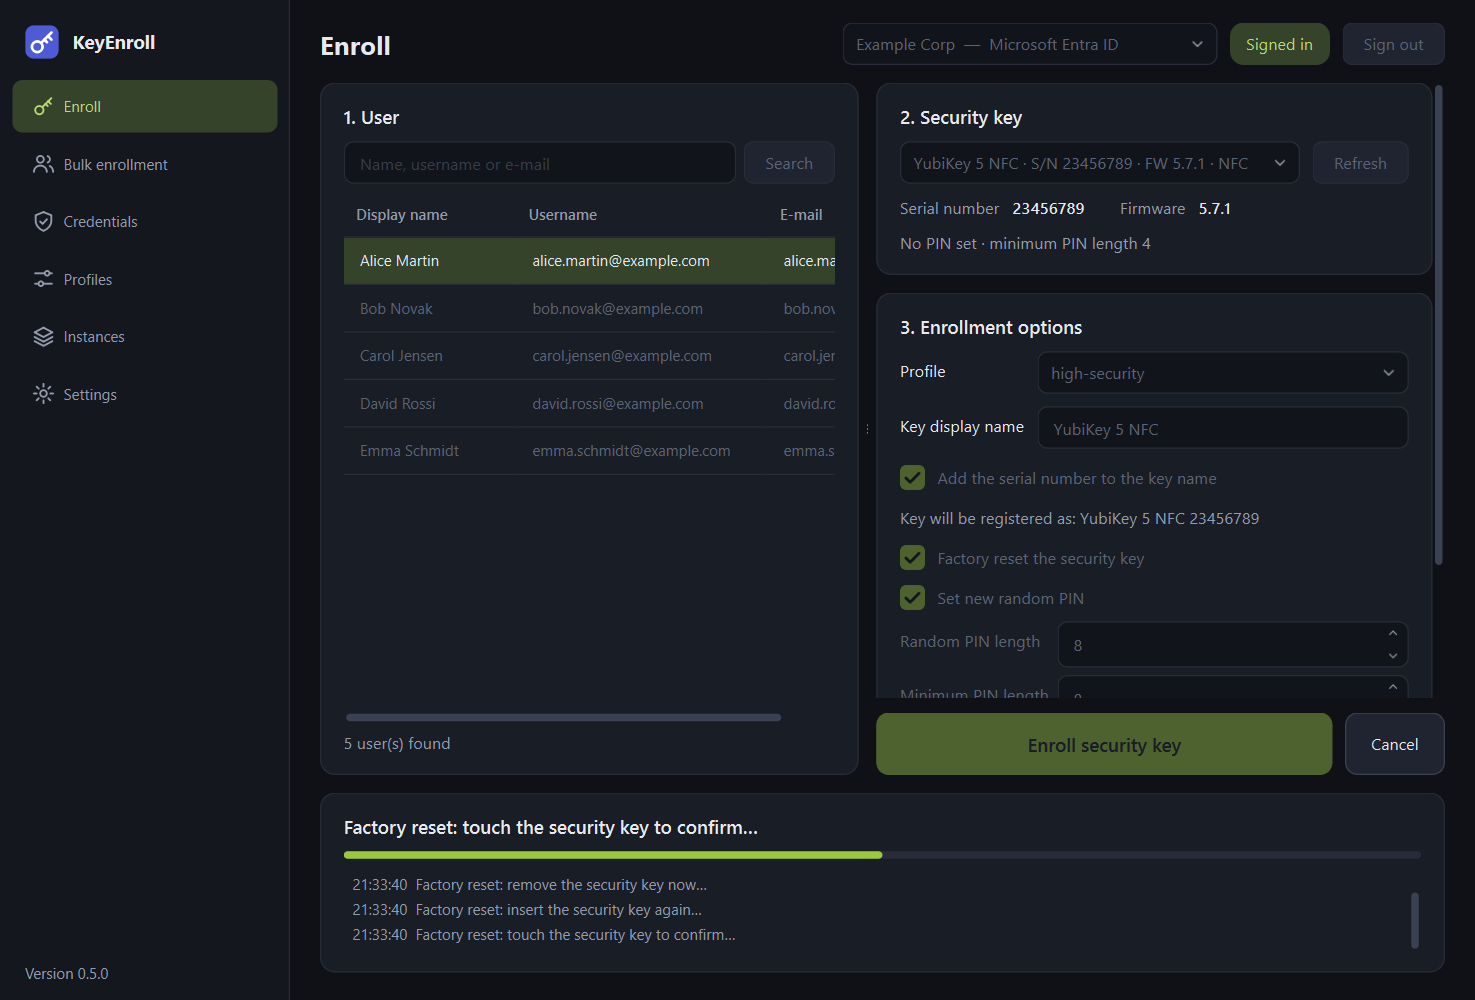
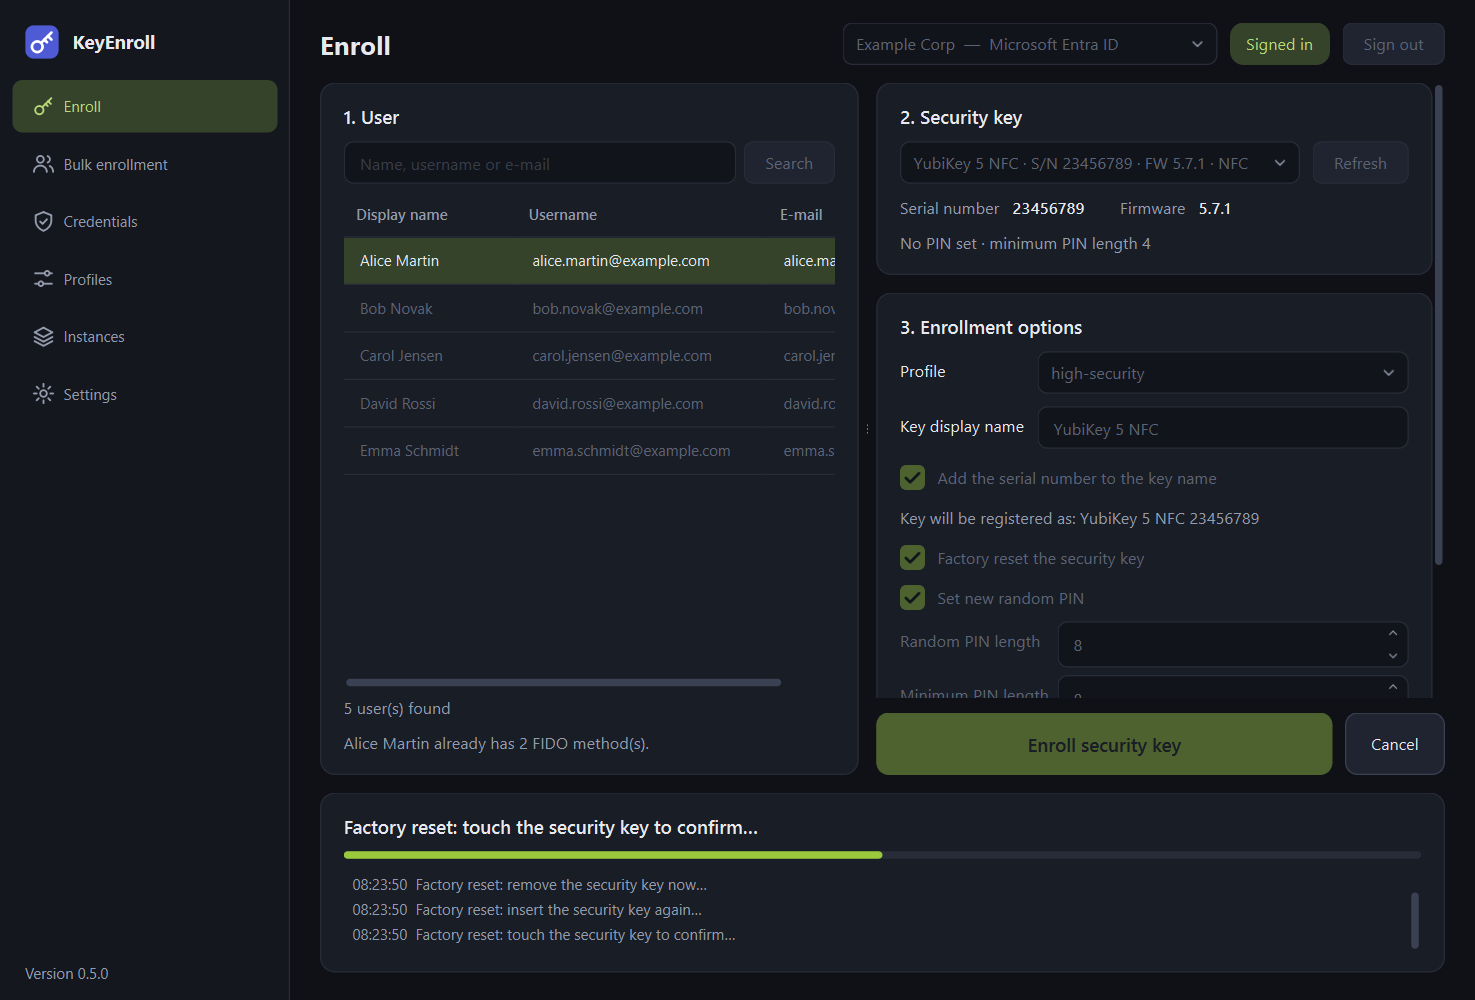
Document group lists and existing keys; refresh screenshots
Docs (EN/PL), each marked "Since version 0.7.0": loading the bulk list
from a group, users who already have a key and the new status, the extra
permission per provider (PingOne AIC flagged as not yet tried live), the
new instance option and the note on the Enroll page. Screenshots show the
new column and options, plus the group dialog. The bulk summary moves to
its own line, where three buttons no longer cut it off.

Changed region(s): [[0.2183, 0.682, 0.5302, 0.775]]

diff --git a/tools/docs_screenshots.py b/tools/docs_screenshots.py
@@ -36,8 +36,9 @@ from keyenroll.bulk import BulkRow
 from keyenroll.config import ConfigStore, Instance, Profile
 from keyenroll.handover import Handover
 from keyenroll.providers import PROVIDERS
-from keyenroll.providers.base import Credential, DirectoryUser
+from keyenroll.providers.base import Credential, DirectoryGroup, DirectoryUser
 from keyenroll.secrets_store import TokenStore
+from keyenroll.ui import bulk_page as bulk_page_module
 from keyenroll.ui import dialogs, main_window
 from keyenroll.ui.common import AppContext
 from keyenroll.ui.theme import apply_theme
@@ -76,6 +77,12 @@ class Provider(GuiProvider):
 
     def search_users(self, query):
         return [u for u in PEOPLE if query.lower() in u.display_name.lower()]
+
+    def search_groups(self, query):
+        return [
+            DirectoryGroup("g1", "New starters October", "Joined in October 2026"),
+            DirectoryGroup("g2", "New starters September", "Joined in September 2026"),
+        ]
 
 
 class Source(FakeSource):
@@ -163,16 +170,19 @@ def render(app: QApplication, lang: str) -> list[str]:
     window.nav.setCurrentRow(main_window.PAGE_BULK)
     bulk_page = window.bulk_page
     states = [
-        (bulk.DONE, 23456789, "48153729"),
-        (bulk.DONE, 23456790, "90274615"),
-        (bulk.RUNNING, None, None),
-        (bulk.READY, None, None),
+        (bulk.DONE, 23456789, "48153729", 0),
+        (bulk.DONE, 23456790, "90274615", 0),
+        (bulk.RUNNING, None, None, 0),
+        (bulk.READY, None, None, 0),
+        (bulk.HAS_KEY, None, None, 2),
     ]
+    bulk_page.skip_existing.setChecked(True)
     bulk_page.rows = [
         BulkRow(user.username, user=user, status=status, serial=serial, pin=pin,
                 key_name=f"YubiKey 5 NFC {serial}" if serial else "",
-                finished="2026-10-02 09:41:07" if serial else "", must_change_pin=True)
-        for user, (status, serial, pin) in zip(PEOPLE, states, strict=False)
+                finished="2026-10-02 09:41:07" if serial else "", must_change_pin=True,
+                existing=existing)
+        for user, (status, serial, pin, existing) in zip(PEOPLE, states, strict=False)
     ]
     bulk_page.rows.append(BulkRow("frank.ghost@example.com", status=bulk.NOT_FOUND))
     bulk_page._instance_id = config.active_instance_id
@@ -187,6 +197,12 @@ def render(app: QApplication, lang: str) -> list[str]:
     bulk_page.table.selectRow(0)
     shot(window, "bulk")
     shot(dialogs.ExportDialog(window), "export")
+    group_dialog = bulk_page_module.GroupDialog(ctx.provider, window)
+    group_dialog.query.setText("New starters")
+    group_dialog.search()
+    pump(0.3)
+    group_dialog.table.selectRow(0)
+    shot(group_dialog, "group")
     bulk_page._worker, bulk_page._running = None, False
     bulk_page.rows = []  # nothing left to warn about when the window closes
     bulk_page._refresh_all()

diff --git a/src/keyenroll/ui/bulk_page.py b/src/keyenroll/ui/bulk_page.py
@@ -159,7 +159,6 @@ class BulkPage(QWidget):
         list_buttons.addSpacing(10)
         list_buttons.addWidget(self.show_pins)
         list_buttons.addStretch(1)
-        list_buttons.addWidget(self.summary)
         self.table = make_table(
             [
                 tr("User"),
@@ -184,6 +183,8 @@ class BulkPage(QWidget):
             ),
         )
         list_card.body.addLayout(list_buttons)
+        # On its own line: next to three buttons it would be cut off.
+        list_card.body.addWidget(self.summary)
         list_card.body.addWidget(self.table, 1)
 
         # options

diff --git a/docs/bulk.pl.md b/docs/bulk.pl.md
@@ -40,6 +40,40 @@ Zasady:
 - Pliki zapisane przez Excela lub Notatnik działają bez przeróbek (wykrywane są
   kodowania UTF-8, UTF-16 i kodowania Windows).
 
+## Lista z grupy { #loading-the-list-from-a-group }
+
+!!! info "Od wersji 0.7.0"
+
+Zamiast pliku listą mogą być członkowie grupy z katalogu, np. *Nowi pracownicy
+październik*. Wymaga to dodatkowego uprawnienia i włącza się osobno dla każdej
+instancji; zobacz [Listy masowe z grup](providers.md#bulk-lists-from-groups).
+
+![Wybór grupy](assets/screenshots/pl/group.png){ .shot .dialog }
+
+1. **Wczytaj z grupy…**, wpisz początek nazwy grupy i kliknij **Szukaj**.
+2. Zaznacz grupę. W Microsoft Entra ID opcja **Uwzględnij członków podgrup** dodaje
+   też członków grup zagnieżdżonych.
+3. **Wczytaj członków**. Brani są tylko użytkownicy; urządzenia i inne obiekty
+   w grupie są pomijane, a użytkownik występujący dwa razy trafia na listę raz.
+
+Użytkownicy pochodzą wprost z katalogu, więc nie trzeba ich osobno wyszukiwać. Lista
+należy do instancji, dla której ją wczytano, tak samo jak lista z pliku.
+
+## Użytkownicy, którzy mają już klucz { #users-who-already-have-a-key }
+
+!!! info "Od wersji 0.7.0"
+
+Gdy opcja **Sprawdzaj istniejące metody FIDO** jest włączona (domyślnie), KeyEnroll
+przy wczytywaniu listy liczy metody FIDO, które każdy użytkownik już ma, i pokazuje
+tę liczbę w kolumnie **Metody FIDO**. Opcja **Pomiń użytkowników, którzy już je
+mają** zmienia ich status na *Ma już klucz*, więc wdrożenie ich pomija; jej
+wyłączenie przywraca ich do kolejki.
+
+Liczone są wszystkie metody FIDO znane dostawcy tożsamości: klucze bezpieczeństwa,
+a w Entra ID i Okta także passkeys w Microsoft Authenticator czy Windows Hello.
+PingOne Advanced Identity Cloud nie udostępnia ich listy, więc przy nim kolumna
+pozostaje pusta.
+
 ## Strona
 
 **Opcje rejestracji** (u góry)
@@ -49,12 +83,14 @@ Zasady:
 | **Profil** | [Profil](profiles.md) stosowany do każdego klucza we wdrożeniu. Wiersz poniżej streszcza jego opcje. |
 | **Nazwa wyświetlana klucza** | Nazwa nadawana każdemu kluczowi. Połącz ją z numerem seryjnym, żeby rozróżniać klucze. |
 | **Dodaj numer seryjny do nazwy klucza** | Dopisuje numer seryjny danego klucza. |
+| **Sprawdzaj istniejące metody FIDO**, **Pomiń użytkowników, którzy już je mają** | Zobacz [Użytkownicy, którzy mają już klucz](#users-who-already-have-a-key). |
 
 **Lista użytkowników** (środek)
 
 | Element | Do czego służy |
 |---|---|
 | **Wczytaj z pliku…** | Wczytuje listę i sprawdza każdego użytkownika w katalogu. |
+| **Wczytaj z grupy…** | Używa członków grupy z katalogu jako listy, zobacz [wyżej](#loading-the-list-from-a-group). |
 | **Wyczyść listę** | Opróżnia listę. Najpierw pyta, jeśli są PIN-y, których nie wyeksportowano. |
 | **Pokaż PIN-y na liście** | Pokazuje tymczasowe PIN-y zamiast kropek. Zostaw wyłączone, jeśli ktoś może widzieć Twój ekran. |
 | Podsumowanie po prawej | Ilu użytkowników jest gotowych, zarejestrowanych, nieudanych i nieznalezionych. |
@@ -81,6 +117,7 @@ Zasady:
 | W toku | Klucz tego użytkownika jest właśnie rejestrowany. |
 | Zarejestrowano | Gotowe. Wiersz pokazuje numer seryjny i PIN. |
 | Niepowodzenie | Coś poszło nie tak; kolumna *Komunikat* mówi co. |
+| Ma już klucz | Użytkownik ma już metodę FIDO, a opcja *Pomiń użytkowników, którzy już je mają* jest włączona. Wiersz jest pomijany. |
 
 ## Przebieg wdrożenia
 

diff --git a/docs/bulk.md b/docs/bulk.md
@@ -40,6 +40,39 @@ Rules:
 - Files saved by Excel or Notepad work as they are (UTF-8, UTF-16 and Windows
   encodings are detected).
 
+## Loading the list from a group
+
+!!! info "Since version 0.7.0"
+
+Instead of a file, the list can be the members of a group in the directory, for
+example *New starters October*. This needs an additional permission and is switched
+on per instance; see [Bulk lists from groups](providers.md#bulk-lists-from-groups).
+
+![Choosing a group](assets/screenshots/en/group.png){ .shot .dialog }
+
+1. **Load from group…**, type the beginning of the group name and press **Search**.
+2. Select the group. With Microsoft Entra ID, **Include members of nested groups**
+   also takes the members of groups inside it.
+3. **Load members**. Only users are taken; devices and other objects in the group
+   are left out, and a user who appears twice is listed once.
+
+The users come straight from the directory, so no separate lookup is needed. The
+list belongs to the instance it was loaded for, like a list from a file.
+
+## Users who already have a key
+
+!!! info "Since version 0.7.0"
+
+With **Check for existing FIDO methods** on (the default), KeyEnroll counts the FIDO
+methods each user already has while the list is loaded, and shows the number in the
+column **FIDO methods**. **Skip users who already have one** moves those users to the
+status *Has a key*, so that the batch passes them over; switch it off to put them
+back in the queue.
+
+The count includes every FIDO method the identity provider knows: security keys,
+and with Entra ID and Okta also passkeys in Microsoft Authenticator or Windows Hello.
+PingOne Advanced Identity Cloud cannot list them, so with it the column stays empty.
+
 ## The page
 
 **Enrollment options** (top)
@@ -49,12 +82,14 @@ Rules:
 | **Profile** | The [profile](profiles.md) applied to every key of the batch. The line below summarises it. |
 | **Key display name** | The name given to every key. Combine it with the serial number to tell the keys apart. |
 | **Add the serial number to the key name** | Appends each key's own serial number. |
+| **Check for existing FIDO methods**, **Skip users who already have one** | See [Users who already have a key](#users-who-already-have-a-key). |
 
 **User list** (middle)
 
 | Control | What it is for |
 |---|---|
 | **Load from file…** | Loads the list and looks every user up in the directory. |
+| **Load from group…** | Takes the members of a directory group as the list, see [above](#loading-the-list-from-a-group). |
 | **Clear list** | Empties the list. Asks first if there are PINs you have not exported. |
 | **Show PINs in the list** | Shows the temporary PINs instead of dots. Leave it off if someone can see your screen. |
 | Summary on the right | How many users are ready, enrolled, failed and not found. |
@@ -81,6 +116,7 @@ Rules:
 | In progress | This user's key is being enrolled right now. |
 | Enrolled | Done. The row shows the serial number and the PIN. |
 | Failed | Something went wrong; the *Message* column says what. |
+| Has a key | The user already has a FIDO method and *Skip users who already have one* is on. The row is passed over. |
 
 ## Running a batch
 

diff --git a/docs/providers.pl.md b/docs/providers.pl.md
@@ -119,6 +119,28 @@ i zarządzać ich urządzeniami MFA w środowisku.
 poświadczeń, więc strona [Poświadczenia](credentials.md) jest niedostępna. Zarządzaj
 nimi w konsoli administracyjnej.
 
+## Listy masowe z grup { #bulk-lists-from-groups }
+
+!!! info "Od wersji 0.7.0"
+
+[Wczytanie listy z grupy](bulk.md#loading-the-list-from-a-group) odczytuje członkostwo
+w grupach, na co nie pozwala rejestracja opisana przez YubiEnroll. Dlatego opcja jest
+**wyłączona**, dopóki nie włączysz jej dla instancji:
+
+1. Nadaj dodatkowe uprawnienie u dostawcy tożsamości (tabela poniżej).
+2. W KeyEnroll edytuj instancję i ustaw **Listy masowe z grup** na **Włączone**.
+3. **Wyloguj się i zaloguj ponownie**, żeby nowe uprawnienie weszło do logowania.
+
+| Dostawca tożsamości | Dodatkowe uprawnienie |
+|---|---|
+| Microsoft Entra ID | Delegowane uprawnienie Microsoft Graph `GroupMember.Read.All` ze zgodą administratora dla tenanta. |
+| Okta | Zakres `okta.groups.read`, nadany aplikacji na karcie *Okta API Scopes*. |
+| PingOne PingID | Bez zakresu; rola administratora musi pozwalać na odczyt grup (np. *Identity Data Read Only* obok roli używanej do rejestracji). |
+| PingOne Advanced Identity Cloud | Bez zmian; `fr:idm:*` obejmuje już grupy. Grupy są odczytywane z obiektu `<realm>_group`, a ich członkowie przez relację `groups` użytkowników. **Jeszcze niesprawdzone na żywym tenancie**: jeśli w Twoim tenancie nie działa, prosimy o [zgłoszenie](https://github.com/inowakowski/KeyEnroll/issues). |
+
+Jeśli opcja jest włączona, a uprawnienia brakuje, logowanie lub wczytanie grupy
+kończy się komunikatem dostawcy o braku zgody albo zabronionym żądaniu.
+
 ## Czy to było testowane?
 
 Na żywym tenancie potwierdzono dotąd tylko integrację z **Okta**. Pozostałe trzy

diff --git a/docs/providers.md b/docs/providers.md
@@ -115,6 +115,28 @@ MFA devices in the environment.
 credentials, so the [Credentials](credentials.md) page is not available. Manage them
 in the administration console.
 
+## Bulk lists from groups
+
+!!! info "Since version 0.7.0"
+
+[Loading a bulk list from a group](bulk.md#loading-the-list-from-a-group) reads group
+memberships, which the registration described by YubiEnroll does not allow. It is
+therefore **off** until you switch it on for an instance:
+
+1. Grant the additional permission at the identity provider (table below).
+2. In KeyEnroll, edit the instance and set **Bulk lists from groups** to **On**.
+3. **Sign out and sign in again**, so that the new permission is part of the sign-in.
+
+| Identity provider | Additional permission |
+|---|---|
+| Microsoft Entra ID | Delegated Microsoft Graph permission `GroupMember.Read.All`, with admin consent for the tenant. |
+| Okta | Scope `okta.groups.read`, granted to the application on its *Okta API Scopes* tab. |
+| PingOne PingID | No scope; the administrator's role has to allow reading groups (for example *Identity Data Read Only* in addition to the role used for enrollment). |
+| PingOne Advanced Identity Cloud | No change; `fr:idm:*` already covers groups. Groups are read from the managed object `<realm>_group` and its members through the users' `groups` relationship. **Not yet tried against a live tenant**: if it does not work in your tenant, please [report it](https://github.com/inowakowski/KeyEnroll/issues). |
+
+With the option on and the permission missing, signing in or loading a group ends
+with the provider's message about consent or a forbidden request.
+
 ## Has it been tested?
 
 Only the **Okta** integration has been confirmed against a live tenant so far. The

diff --git a/docs/enroll.pl.md b/docs/enroll.pl.md
@@ -12,6 +12,7 @@ jednego użytkownika. Składa się z trzech ponumerowanych kroków i dużego prz
 | Pole wyszukiwania | Wpisz początek imienia, nazwiska, nazwy użytkownika lub adresu e-mail i naciśnij ++enter++ albo **Szukaj**. Puste wyszukiwanie pokazuje pierwszych użytkowników katalogu. |
 | Lista użytkowników | Zaznacz użytkownika, który dostanie klucz. Kliknięcie nagłówka kolumny sortuje listę. |
 | Licznik pod listą | Ilu użytkowników znaleziono. Lista pokazuje najwyżej 25 osób, więc jeśli brakuje szukanej, zawęź wyszukiwanie. |
+| Informacja pod listą | Ile metod FIDO ma już zaznaczony użytkownik, żeby nie wydać mu przez pomyłkę drugiego klucza (od wersji 0.7.0; nie dla PingOne AIC). |
 
 Wyszukiwanie wymaga [zalogowania](instances.md#signing-in).
 

diff --git a/docs/enroll.md b/docs/enroll.md
@@ -12,6 +12,7 @@ laid out as three numbered steps and a large button.
 | Search field | Type the beginning of a name, user name or e-mail address and press ++enter++ or **Search**. An empty search lists the first users of the directory. |
 | User list | Select the user who will receive the key. Click a column header to sort. |
 | Counter below the list | How many users matched. At most 25 are shown, so make the search more specific if the user is missing. |
+| Note under the list | How many FIDO methods the selected user already has, so that a second key is not handed out by mistake (since 0.7.0; not with PingOne AIC). |
 
 You have to be [signed in](instances.md#signing-in) to search.
 

diff --git a/docs/instances.pl.md b/docs/instances.pl.md
@@ -33,6 +33,7 @@ między nimi bez wychodzenia z aplikacji.
 | **Nazwa instancji** | Dowolna nazwa, po której rozpoznasz tenant, np. *Produkcja*. |
 | **Dostawca tożsamości** | Rodzaj tenanta. Od niego zależą pola poniżej. |
 | Pola dostawcy | Wartości aplikacji zarejestrowanej u dostawcy tożsamości. Każde pole opisuje strona [Dostawcy tożsamości](providers.md). |
+| **Listy masowe z grup** | Wyłączone, chyba że potrzebujesz [list masowych z grup](providers.md#bulk-lists-from-groups); włączenie prosi dostawcę o dodatkowe uprawnienie (od wersji 0.7.0). |
 | **Profil domyślny** | Opcjonalny. |
 
 !!! warning "Redirect URI musi zgadzać się co do znaku"

diff --git a/docs/instances.md b/docs/instances.md
@@ -33,6 +33,7 @@ leaving the application.
 | **Instance name** | Any name that helps you recognise the tenant, for example *Production*. |
 | **Identity provider** | The kind of tenant. The fields below change accordingly. |
 | Provider fields | The values of the application registered at the identity provider. See [Identity providers](providers.md) for each field. |
+| **Bulk lists from groups** | Off unless you need [bulk lists from groups](providers.md#bulk-lists-from-groups); switching it on asks the provider for an additional permission (since 0.7.0). |
 | **Default profile** | Optional. |
 
 !!! warning "The redirect URI must match exactly"
